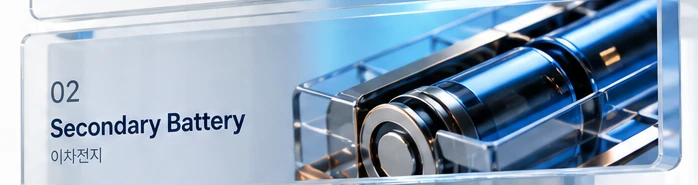
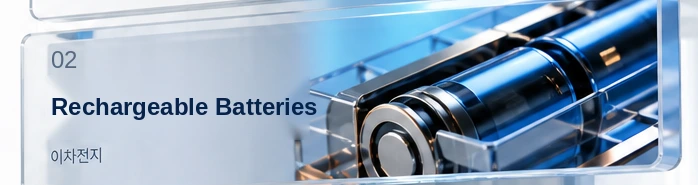
feat: 02 이차전지 영문 라벨을 국제 학술 표준 Rechargeable Batteries로 교체

Changed region(s): [[0.0602, 0.4324, 0.4513, 0.7568], [0.0602, 0.2703, 0.1203, 0.3784]]

diff --git a/index.html b/index.html
@@ -234,11 +234,11 @@
           </picture>
         </a>
 
-        <!-- 02 Secondary Battery -->
-        <a href="#labs" class="pillar-card" data-filter="배터리" aria-label="02 Secondary Battery 이차전지 연구실 둘러보기">
+        <!-- 02 Rechargeable Batteries -->
+        <a href="#labs" class="pillar-card" data-filter="배터리" aria-label="02 Rechargeable Batteries 이차전지 연구실 둘러보기">
           <picture>
-            <source srcset="assets/hero/card_battery.webp" type="image/webp">
-            <img src="assets/hero/card_battery.png" alt="02 Secondary Battery 고용량 이차전지 및 에너지 저장·변환" width="698" height="185" loading="eager">
+            <source srcset="assets/hero/card_battery.webp?v=20261112_rc" type="image/webp">
+            <img src="assets/hero/card_battery.png?v=20261112_rc" alt="02 Rechargeable Batteries 고용량 이차전지 및 에너지 저장·변환" width="698" height="185" loading="eager">
           </picture>
         </a>
 
